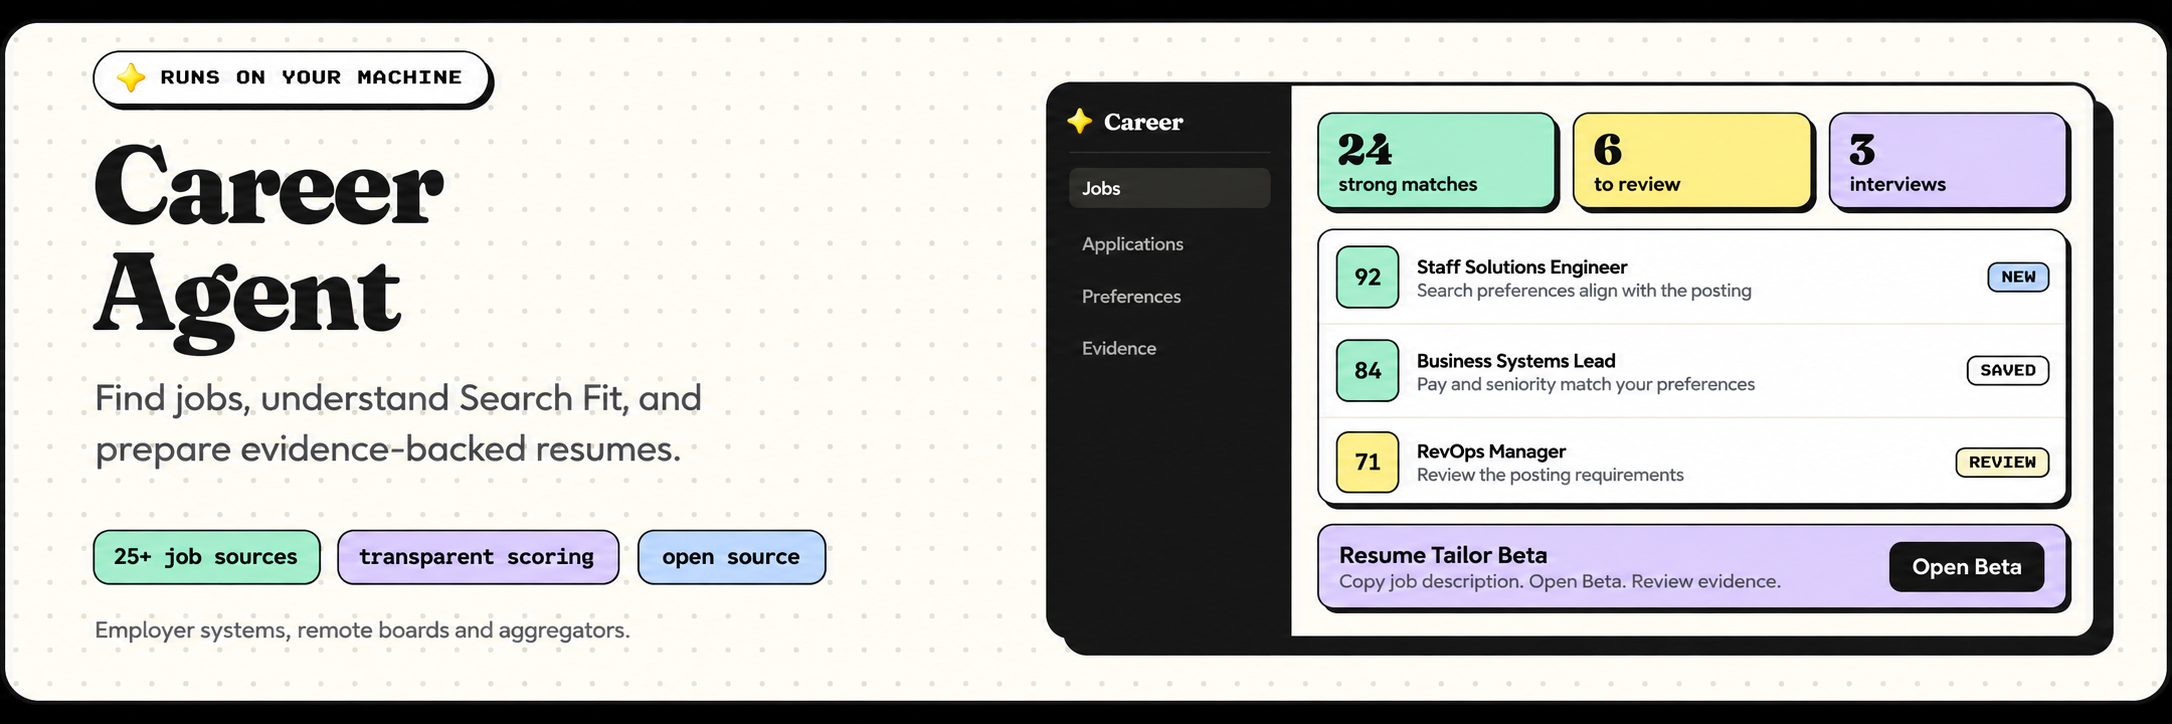
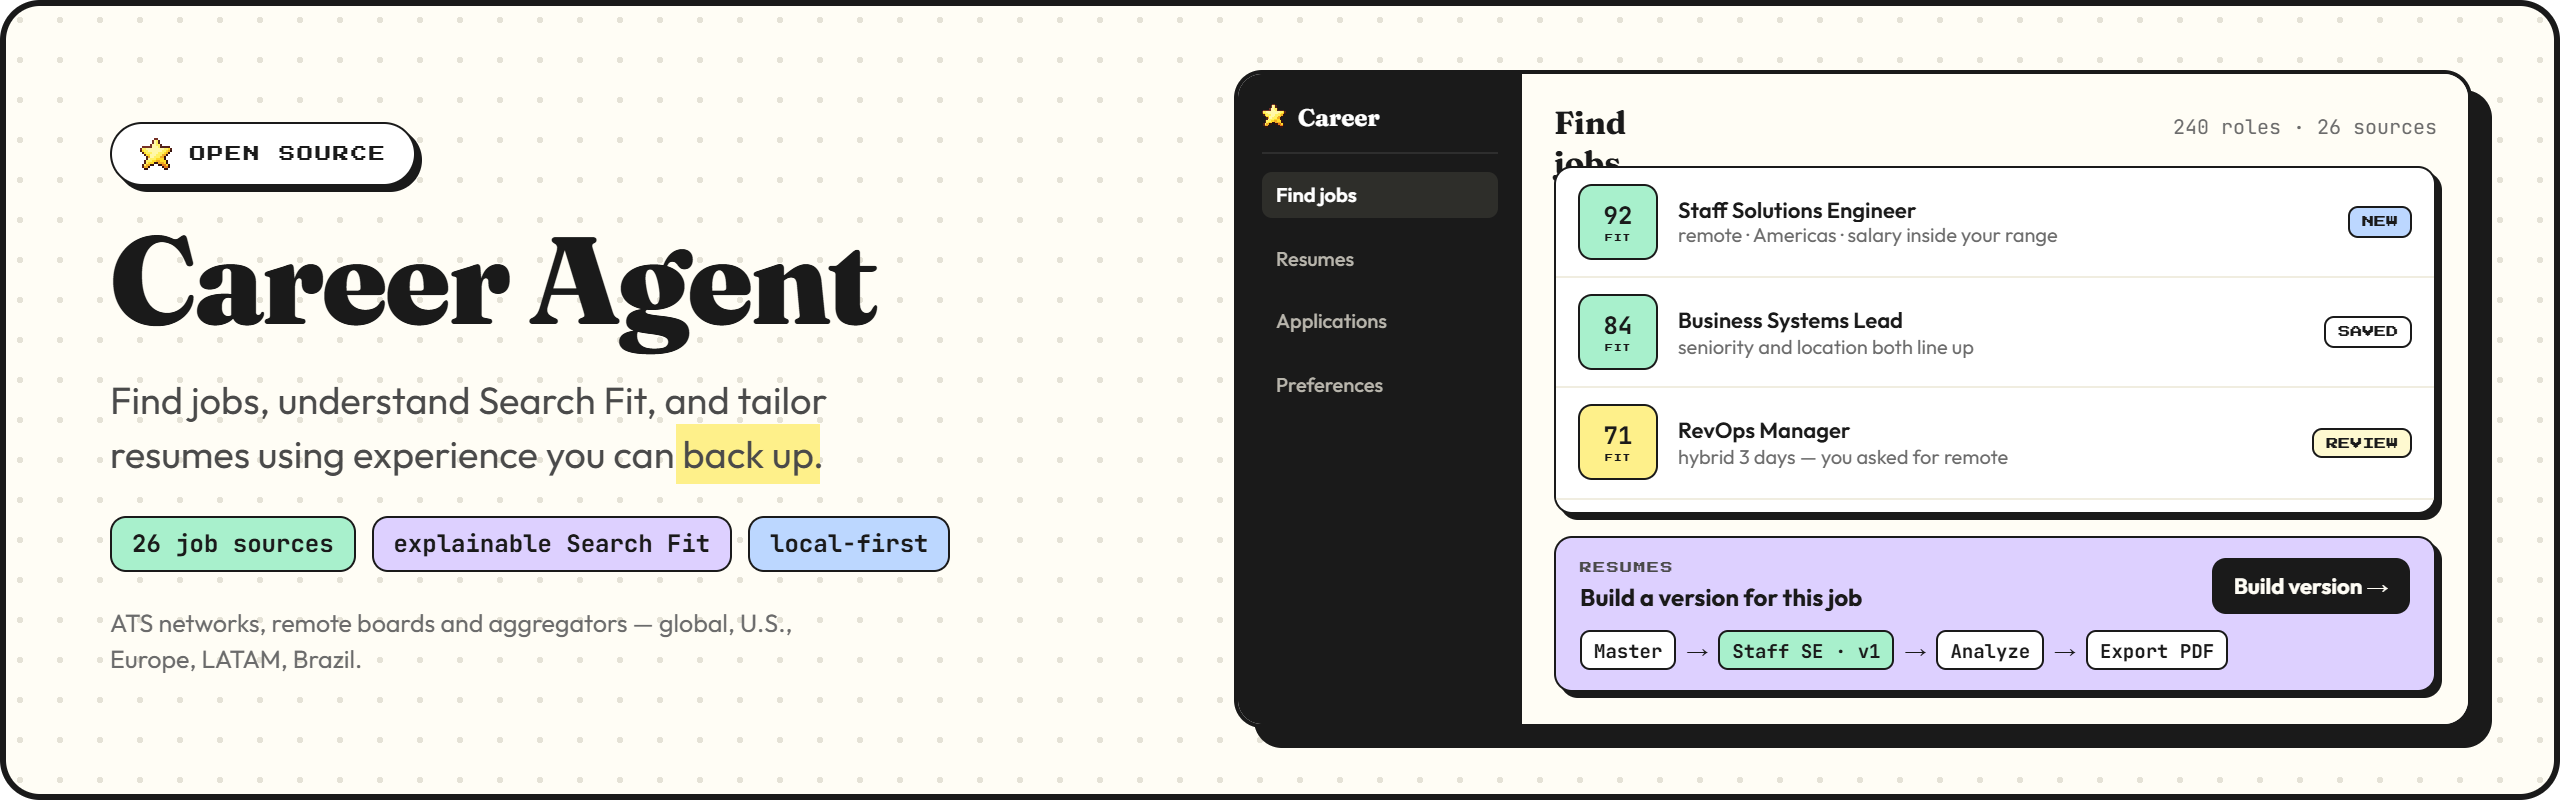
docs: Beta 3 public visuals
The owner's new hero and how-it-works banners replace the Resume Tailor Beta
ones; three demo screenshots of the current product replace the previous
interface's. Synthetic data only, lossless PNG without metadata, localized
alt text.

diff --git a/docs/assets/readme/ILLUSTRATIONS.md b/docs/assets/readme/ILLUSTRATIONS.md
@@ -1,42 +1,35 @@
-# README illustrations
+# README illustrations and screenshots
 
-The hero and workflow banners are editorial illustrations, not application
-screenshots. They use fictional examples and do not report product outcomes.
-The README labels them accordingly. The other PNGs in this directory are real
-captures of the synthetic demo.
+Updated for v0.2.0-beta.3. Every image here was reviewed for private data
+before it was added: none shows a real person's name, contact details, CV,
+career evidence, job search, applications, settings, a local path, an id or a
+secret.
 
-Both banners were adapted from designs supplied for this README update using
-the built-in image generation tool. The original supplied files were preserved.
-No private CV, job-search data or application history was used.
+## Illustrations
 
-Both banners still show **Resume Tailor Beta**, the resume tool retired in
-Resume Workspace V2 PR 12 (Resumes replaced it). They must be redrawn before
-the next release; until then the README keeps them as illustrations of
-v0.2.0-beta.2.
+- `hero.png` (2560 x 800): the README banner. Supplied by the owner for Beta 3.
+  It shows Find jobs with Search Fit percentages on invented roles and a
+  Resumes step (Master, a job version, Analyze, Export PDF). The roles,
+  counts and fits are fictional examples, not measured outcomes.
+- `how-it-works.png` (2560 x 800): the workflow banner. Supplied by the owner
+  for Beta 3. Five steps: Find jobs, Search Fit, Why it fits, Resumes,
+  Applications. It does not claim automatic applications, hiring outcomes or
+  that an AI decides fit or eligibility.
 
-## Saved assets and edit specifications
+Both replace the v0.2.0-beta.2 banners, which showed the retired Resume Tailor
+Beta. The README labels the illustrations as illustrations.
 
-- `hero.png`: preserve the wide cream dotted layout, serif title, outlined
-  illustrated interface and mint, lavender, yellow and blue palette. Use
-  "RUNS ON YOUR MACHINE" and "Find jobs, understand Search Fit, and prepare
-  evidence-backed resumes." Chips: "25+ job sources", "transparent scoring",
-  "open source". Footer: "Employer systems, remote boards and aggregators."
-  Job reasons refer to posting facts and search preferences, not proven
-  experience. The companion panel reads "Resume Tailor Beta" and
-  "Copy job description. Open Beta. Review evidence.", with "Open Beta".
-  Replace pixel stars with original geometric four-point yellow sparkles.
-  Do not imply profile synchronization, guaranteed pages or hiring success.
-- `how-it-works.png`: preserve the wide five-card layout, cream lined
-  background, outlined cards and palette. Subtitle: "25+ integrated job
-  sources. From discovery to a tailored, tracked application." Badge:
-  "LOCAL-FIRST". Found: "Collect jobs from supported sources in one place."
-  Scored: "Search Fit compares posting facts with your search preferences."
-  Explained: "Inspect the reasons, source quotes and missing information."
-  Prepared: "Review evidence and prepare your resume with Resume Tailor Beta."
-  Tracked: "Keep application statuses and notes in your local workspace."
-  Card badges: "Discover", "Search Fit", "Why?", "Tailor Beta", "Applications".
-  Replace the pixel star with an original geometric four-point yellow sparkle.
+## Screenshots
 
-The corrected wording avoids the supplied designs' claims of daily collection,
-fully offline operation, experience-based Search Fit and guaranteed page counts.
-The drawings do not represent automatic transfer between the two evidence stores.
+Captured from the demo (`Start-Demo.cmd`: synthetic jobs and an invented
+candidate, Alex Morgan) of a clean copy of the release code, at 1440 x 900,
+light theme, English. The demo candidate's resume was imported from a
+synthetic DOCX through the product's own import and review.
+
+- `find-jobs.png`: Find jobs, cards view.
+- `resume-editor.png`: the Resumes editor beside its live preview.
+- `analyze.png`: Analyze for a job with a pasted, invented job ad.
+
+They replace the v0.2.0-beta.2 screenshots (`discover.png`, `why.png`,
+`first-run.png`), which showed the previous interface and Resume Tailor Beta.
+Images are lossless PNG with metadata removed.

diff --git a/README.es.md b/README.es.md
@@ -13,7 +13,7 @@
 <p align="center">
   <img
     src="docs/assets/readme/hero.png"
-    alt="Career Agent"
+    alt="Ilustración de Career Agent: Find jobs con porcentajes de Search Fit junto a un paso de Resumes, del currículum maestro a una versión para la oferta, Analyze y exportación a PDF"
     width="100%"
   />
 </p>
@@ -133,19 +133,21 @@ cómo [abrirlo de nuevo](docs/INSTALL.md#how-to-open-career-agent-next-time),
 
 ## Capturas de pantalla
 
-Las tres muestran el producto con datos sintéticos de la demo o con un
-espacio de trabajo vacío en el primer inicio. La interfaz aparece en inglés;
-también está en portugués de Brasil.
+Las tres son capturas de la demo, con ofertas sintéticas y una persona candidata inventada. La interfaz aparece en inglés; también está en portugués de Brasil.
 
-| Descubrir ofertas | Por qué encaja con tu búsqueda |
-|---|---|
-| ![Descubrir con ofertas sintéticas, Search Fit y Posting completeness en cada tarjeta](docs/assets/readme/discover.png) | ![Motivos de Search Fit, cada uno citado de la oferta](docs/assets/readme/why.png) |
+**Find jobs**
 
-| Primer inicio |
-|---|
-| ![Configuración inicial con el menú de perfil y diez preguntas cortas](docs/assets/readme/first-run.png) |
+![Find jobs en la demo: tarjetas con el porcentaje de Search Fit, la empresa, el lugar, el nivel, el salario y la fuente de cada oferta sintética](docs/assets/readme/find-jobs.png)
 
-![Flujo: descubrir, entender el Search Fit, preparar un currículum y seguir postulaciones](docs/assets/readme/how-it-works.png)
+**Editor de currículum**
+
+![El editor de Resumes: campos de contacto junto a la lista de revisión y una vista previa en vivo del currículum de una página](docs/assets/readme/resume-editor.png)
+
+**Analyze para una oferta**
+
+![Analyze para una oferta: conteos y hallazgos con nombre para cada requisito, brechas y una nota de elegibilidad aparte, nunca una puntuación](docs/assets/readme/analyze.png)
+
+![Ilustración del flujo: encontrar ofertas, Search Fit, por qué encaja, Resumes y postulaciones](docs/assets/readme/how-it-works.png)
 
 *Ilustración del flujo, no una captura de pantalla.*
 

diff --git a/README.pt-BR.md b/README.pt-BR.md
@@ -13,7 +13,7 @@
 <p align="center">
   <img
     src="docs/assets/readme/hero.png"
-    alt="Career Agent"
+    alt="Ilustração do Career Agent: Encontrar vagas com percentuais de Search Fit ao lado de uma etapa de Currículos, do mestre a uma versão para a vaga, Analisar e exportar em PDF"
     width="100%"
   />
 </p>
@@ -134,19 +134,21 @@ como [abrir de novo](docs/INSTALL.md#how-to-open-career-agent-next-time),
 
 ## Capturas de tela
 
-As três mostram o produto com dados sintéticos da demonstração ou com um
-espaço de trabalho vazio na primeira execução. A interface aparece em inglês;
-ela também tem português.
+As três são capturas da demonstração, com vagas sintéticas e uma pessoa candidata inventada. A interface aparece em inglês; ela também tem português.
 
-| Descobrir vagas | Por que esta vaga combina |
-|---|---|
-| ![Descobrir com vagas sintéticas, Search Fit e Posting completeness em cada cartão](docs/assets/readme/discover.png) | ![Motivos do Search Fit, cada um citado da vaga](docs/assets/readme/why.png) |
+**Encontrar vagas**
 
-| Primeira execução |
-|---|
-| ![Configuração inicial com o menu de perfil e dez perguntas curtas](docs/assets/readme/first-run.png) |
+![Encontrar vagas na demonstração: cartões com o percentual de Search Fit, a empresa, o lugar, o nível, o salário e a fonte de cada vaga sintética](docs/assets/readme/find-jobs.png)
 
-![Fluxo: descobrir, entender o Search Fit, preparar um currículo e acompanhar candidaturas](docs/assets/readme/how-it-works.png)
+**Editor de currículo**
+
+![O editor de Currículos: campos de contato ao lado da lista de verificação e uma prévia ao vivo do currículo de uma página](docs/assets/readme/resume-editor.png)
+
+**Analisar para uma vaga**
+
+![Analisar para uma vaga: contagens e achados com nome para cada pedido, lacunas e uma nota de elegibilidade separada, nunca uma nota](docs/assets/readme/analyze.png)
+
+![Ilustração do fluxo: encontrar vagas, Search Fit, por que combina, Currículos e Candidaturas](docs/assets/readme/how-it-works.png)
 
 *Ilustração do fluxo, não uma captura de tela.*
 

diff --git a/README.md b/README.md
@@ -13,7 +13,7 @@
 <p align="center">
   <img
     src="docs/assets/readme/hero.png"
-    alt="Career Agent"
+    alt="Career Agent illustration: Find jobs with Search Fit percentages beside a Resumes step from Master to a job version, Analyze and PDF export"
     width="100%"
   />
 </p>
@@ -132,18 +132,21 @@ then double-click **Start-Career-Agent.cmd** to set up your own search. The guid
 
 ## Screenshots
 
-All three show the product with synthetic demo data or an empty first-run
-workspace.
+All three are captures of the demo, with synthetic jobs and an invented candidate.
 
-| Discover jobs | Why this fits your search |
-|---|---|
-| ![Discover with synthetic jobs, Search Fit and Posting completeness on each card](docs/assets/readme/discover.png) | ![Search Fit reasons, each quoted from the posting](docs/assets/readme/why.png) |
+**Find jobs**
 
-| First run |
-|---|
-| ![First-run setup with the profile menu and ten short questions](docs/assets/readme/first-run.png) |
+![Find jobs in the demo: cards with a Search Fit percentage, the employer, place, level, pay and source of each synthetic posting](docs/assets/readme/find-jobs.png)
 
-![Workflow: discover, inspect Search Fit and reasons, prepare a resume, track applications](docs/assets/readme/how-it-works.png)
+**Resume editor**
+
+![The Resumes editor: contact fields beside the Check list and a live preview of the one-page resume](docs/assets/readme/resume-editor.png)
+
+**Analyze for a job**
+
+![Analyze for a job: counts and named findings for each ask, gaps, and an eligibility note kept apart, never a score](docs/assets/readme/analyze.png)
+
+![Workflow illustration: find jobs, Search Fit, why it fits, Resumes and Applications](docs/assets/readme/how-it-works.png)
 
 *Workflow illustration, not a screenshot.*
 
